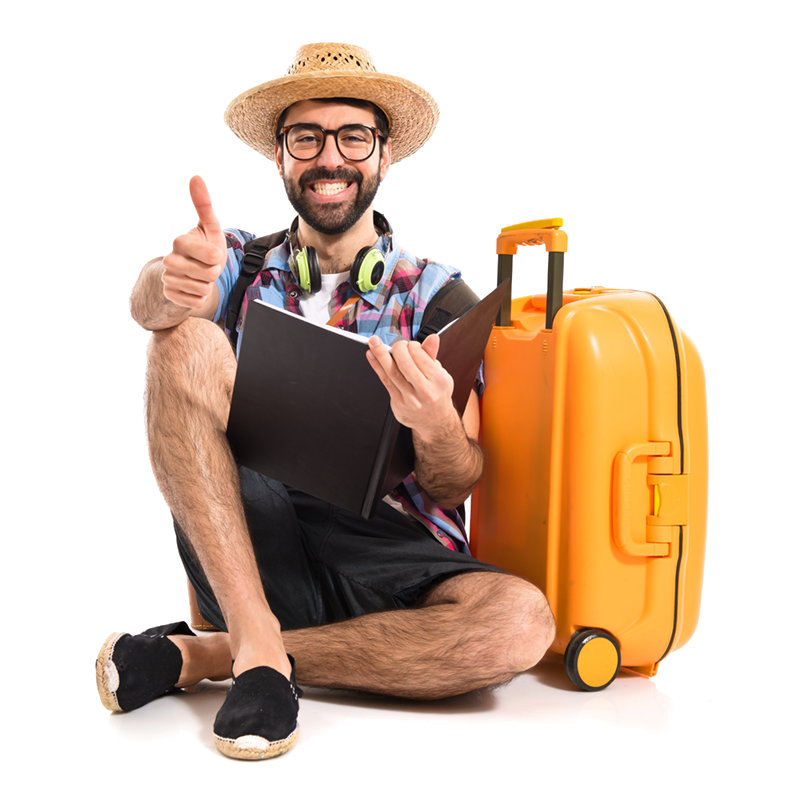
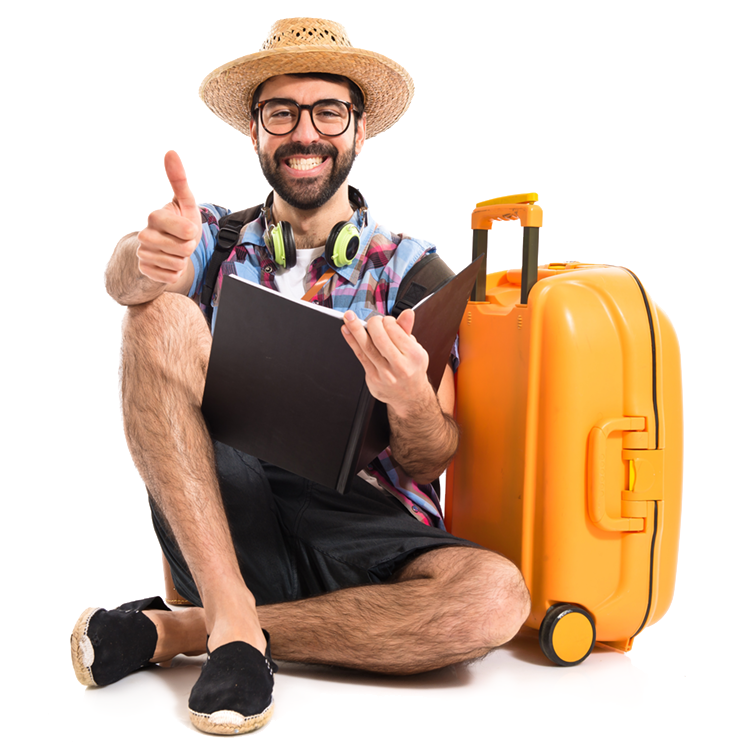
Update index.html + css sección 1

Changed region(s): [[0.092, 0.0, 0.92, 0.9813], [0.4907, 0.5213, 0.5213, 0.552]]

diff --git a/css/index.css b/css/index.css
@@ -1,0 +1,230 @@
+.body{
+  background-color: #fff;
+  min-height: 100vh;
+  margin: 0;
+  font-family: 'Open Sans', sans-serif;
+}
+
+.header{
+  background-color: rgba(255, 255, 255, 0.678);
+  position: fixed;
+  z-index: 25;
+  top: 0;
+  left: 0;
+  width: 100%;
+}
+
+.header-nav{
+  padding: 2rem 1rem;
+}
+
+.header-nav__container{
+  display: flex;
+  align-items: center;
+  justify-content: space-between;
+  max-width: 1024px;
+  margin: 0 auto;
+  padding: 0 1rem;
+}
+
+.header-nav__link-logo-container{
+  display: flex;
+  width: 128px;
+  height: 32px;
+}
+
+.header-nav__link-logo{
+  object-fit: cover;
+  width: 100%;
+  height: 100%;
+}
+
+.header-nav__menu-label {
+  font-size: 1.5rem;
+  cursor: pointer;
+  transition: text-shadow 0.25s;
+}
+
+.header-nav__menu-checkbox {
+  display: none;
+}
+
+.header-nav__menu-checkbox:checked+.header-nav__menu-list {
+  opacity: 1;
+  pointer-events: auto;
+}
+
+.header-nav__menu-list{
+  position: fixed;
+  top: 6rem;
+  left: 0;
+  right: 0;
+  bottom: 0;
+  background-color: #ffc300;
+  opacity: 0;
+  pointer-events: none;
+  display: flex;
+  flex-direction: column;
+  align-items: center;
+  justify-content: center;
+  gap: 2rem;
+  margin: 0;
+  padding: 0;
+  list-style: none;
+  transition: opacity 0.25s;
+}
+
+.header-nav__menu-item{
+  display: flex;
+}
+
+.header-nav__menu-link{
+  position: relative;
+  text-decoration: none;
+  font-weight: 600;
+  transition: color 0.25s;
+  color: #212832;
+}
+
+.header-nav__menu-link--active,
+.header-nav__menu-link:hover {
+  color: #c70039;
+}
+
+.header-nav__menu-link--active {
+  border: 1.5px solid #c70039;
+  padding: 0.3rem 0.6rem;
+  border-radius: 1rem;
+  transition: 0.3s;
+}
+
+.header-nav__menu-link--active:hover {
+  background-color:  #c70039;
+  color: #fff;
+}
+
+@media (min-width: 854px) {
+  .header-nav__menu-label {
+    display: none;
+  }
+
+  .header-nav__menu-list {
+    position: static;
+    background-color: transparent;
+    opacity: 1;
+    pointer-events: auto;
+    flex-direction: row;
+    gap: 2rem;
+  }
+}
+
+.hero {
+  display: flex;
+  align-items: center;
+  justify-content: center;
+  background-image: url('../hero-bg.svg');
+  background-position: center;
+  min-height: 100vh;
+  background-size: cover;
+}
+.hero__container {
+  display: grid;
+  max-width: 1024px;
+  justify-items: center;
+  align-items: center;
+  gap: 2rem;
+  margin: 0 auto;
+  padding: 1rem 0;
+}
+
+.hero__info-container {
+  display: flex;
+  flex-direction: column;
+  gap: 1rem;
+  padding: 1rem;
+  border-radius: 0.5rem;
+  text-align: center;
+}
+
+.hero__info-title {
+  font-size: 2.3rem;
+  margin: 0;
+  font-family: 'Secular One', sans-serif;
+}
+.hero__info-subtitle {
+  font-size: 1.2rem;
+  margin: 0;
+  color: #c70039;
+  font-weight: 800;
+}
+.hero__info-paragraph {
+  font-size: 1rem;
+  font-weight: 400;
+  margin: 0;
+  display: none;
+}
+
+.hero__info-link {
+  background-color: #ffc300;
+  align-self: center;
+  border-radius: 5rem;
+  padding: 0.8rem 1.5rem;
+  text-decoration: none;
+  font-weight: 600;
+  color: #2b2b2b;
+  box-shadow: 0 1.25rem 2.1875rem 0 rgb(241 165 1 / 15%);
+  -webkit-box-shadow: 0 1.25rem 2.1875rem 0 rgb(241 165 1 / 15%);
+  text-transform: uppercase;
+  transition: background-color 0.25s;
+}
+
+.hero__info-link:hover {
+  background-color: #d6a110;
+}
+
+.hero__img-container {
+  position: relative;
+  width: 280px;
+  height: 280px;
+}
+
+.hero__img-tourist {
+  position: absolute;
+  top: 0;
+  left: 0;
+  width: 280px;
+  height: 280px;
+}
+
+@media (min-width: 854px) {
+  .hero__container {
+    grid-template-columns: 1fr 1fr;
+  }
+  .hero__info-container {
+    text-align: left;
+  }
+  .hero__info-paragraph {
+    display: block;
+  }
+  .hero__info-title {
+    font-size: 2.5rem;
+  }
+  .hero__info-subtitle {
+    font-size: 1.15rem;
+  }
+  .hero__img-container {
+    width: 400px;
+    height: 400px;
+  }
+  
+  .hero__img-tourist {
+    width: 400px;
+    height: 400px;
+  }
+  .hero__info-link-container {
+    margin: 1rem 0;
+  }
+  .header{
+    background-color: rgba(255, 222, 149, 0.24);
+  }
+}

diff --git a/index.html b/index.html
@@ -6,17 +6,21 @@
   <meta name="viewport" content="width=device-width, initial-scale=1.0"/>
   <title>Journey | Agencia de Viajes</title>
   <link rel="stylesheet" href="https://cdn.jsdelivr.net/npm/bootstrap-icons@1.9.0/font/bootstrap-icons.css">
+  <link rel="preconnect" href="https://fonts.googleapis.com">
+  <link rel="preconnect" href="https://fonts.gstatic.com" crossorigin>
+  <link href="https://fonts.googleapis.com/css2?family=Open+Sans:wght@300;400;500;600;700;800&family=Secular+One&display=swap" rel="stylesheet">
+  <link rel="stylesheet" href="./css/index.css">
 </head>
-<body>
+<body class="body">
   <!-- Sección 1 (Menu de navegación y portada) -->
-  <header>
+  <header class="header">
     <nav class="header-nav">
       <div class="header-nav__container">
           <a href="#hero" class="header-nav__link-logo-container">
-            <img class="header-nav__link-logo" src="logo-journey.svg" alt="Logo Company" width="140" height="32"/>
+            <img class="header-nav__link-logo" src="logo-journey.svg" alt="Logo Company" width="128" height="32"/>
           </a>
           <label for="headerNavMenuIcon" class="header-nav__menu-label"><i class="bi bi-list"></i></label>
-          <input type="checkbox" id="headerNavMenuIcon" class="header-nav__menu-checkbox" />
+          <input type="checkbox" id="headerNavMenuIcon" class="header-nav__menu-checkbox"/>
           <ul class="header-nav__menu-list">
             <li class="header-nav__menu-item">
               <a href="#service" class="header-nav__menu-link">Servicios</a>
@@ -46,11 +50,13 @@
           <p class="hero__info-paragraph">
             Elige tu destino favorito y comienza a planificar tus tan esperadas vacaciones. Reserva ahora tu viaje en Journey, ¡la mayor agencia de viajes de Latinoamérica!.
           </p>
-          <a href="#" class="hero__info-link">Reservar</a>
+          <div class="hero__info-link-container">
+            <a href="#" class="hero__info-link">Reservar</a>
+          </div>
         </section>
-          <div class="hero__img-container">
-        <img src="img-hero.png" width="450" height="450" alt="Turista" class="hero__img-tourist">
-      </div>
+        <div class="hero__img-container">
+          <img src="img-hero.png" width="450" height="450" alt="Turista" class="hero__img-tourist">
+        </div>
     </div>
     </article>
   <!-- Sección 2 (Servicios y Destino) - etiquetas temporales hechas por Carmen Urízar -->
